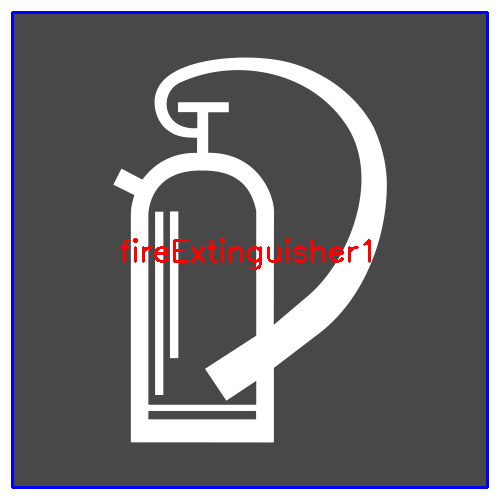
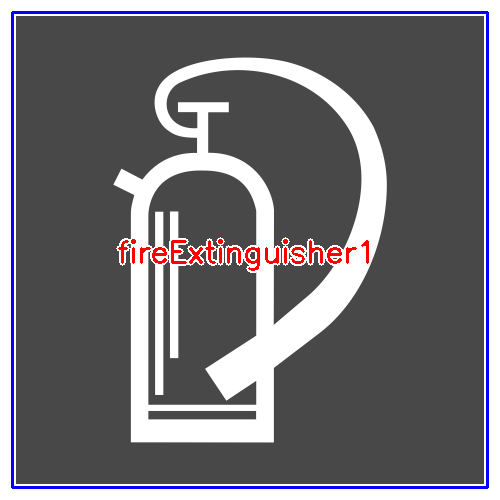
improving writeLabel and drawContour in classify_sign

diff --git a/lib/src/cpp/classify_sign.cpp b/lib/src/cpp/classify_sign.cpp
@@ -4,32 +4,41 @@
 #include "classify_sign.hpp"
 #include "operators/colorized_canny.hpp"
 
+double getFontScale(cv::Mat img) {
+    // TODO use image width and height for calculating font size
+    return std::max(1.3 / 1000 * img.rows, 1.0);
+}
+
+int getInnerThickness(cv::Mat img) {
+    return 2.0 * getFontScale(img);
+}
+
+int getOuterThickness(cv::Mat img) {
+    int innerThickness = getInnerThickness(img);
+    return innerThickness + std::max((int) (innerThickness * 1.0), 4);
+}
+
 void drawContour(cv::Mat &dst, std::vector<cv::Point2i> contour)
 {
-    // TODO add second color for constrast
-    // TODO increase thickness
-    int thickness = std::max((int) round(2.6 / 1000 * dst.rows), 2);
-
     std::vector<std::vector<cv::Point2i>> contours = {contour};
-    cv::Scalar color = cv::Scalar(0, 0, 255, 255);
-    cv::drawContours(dst, contours, 0, color, thickness, cv::LINE_8);
+    cv::drawContours(dst, contours, 0, cv::Scalar(255, 255, 255, 255), getOuterThickness(dst), cv::LINE_8);
+    cv::drawContours(dst, contours, 0, cv::Scalar(0, 0, 255, 255), getInnerThickness(dst), cv::LINE_8);
 }
 
 void writeLabel(cv::Mat &dst, std::string label, std::vector<cv::Point2i> contour)
 {
-    // TODO add second color for constrast
-    // TODO increase thickness
     int fontFace = cv::FONT_HERSHEY_SIMPLEX;
-    double fontScale = std::max(1.3 / 1000 * dst.rows, 1.0);
-    int thickness = fontScale * 2;
+    double fontScale = getFontScale(dst);
+    int innerThickness = getInnerThickness(dst);
+    int outerThickness = getOuterThickness(dst);
     int baseline = 0;
-    cv::Size textSize = cv::getTextSize(label, fontFace, fontScale, thickness, &baseline);
+    cv::Size textSize = cv::getTextSize(label, fontFace, fontScale, outerThickness, &baseline);
 
     cv::Rect boundingBox = cv::boundingRect(contour);
     int x = boundingBox.x + (boundingBox.width - textSize.width) / 2;
     int y = boundingBox.y + (boundingBox.height + textSize.height) / 2;
-    cv::Scalar color = cv::Scalar(255, 0, 0, 255);
-    cv::putText(dst, label, cv::Point2i(x, y), fontFace, fontScale, color, thickness);
+    cv::putText(dst, label, cv::Point2i(x, y), fontFace, fontScale, cv::Scalar(255, 255, 255, 255), outerThickness);
+    cv::putText(dst, label, cv::Point2i(x, y), fontFace, fontScale, cv::Scalar(255, 0, 0, 255), innerThickness);
 }
 
 // TODO how to return sign_class

diff --git a/lib/src/cpp/locate_signs.cpp b/lib/src/cpp/locate_signs.cpp
@@ -5,8 +5,6 @@
 #include "process_potential_sign.hpp"
 #include "operators/colorized_canny.hpp"
 
-cv::RNG rng(12345);
-
 // TODO array for describing detected signs?
 void locateSigns(cv::Mat &src, cv::Mat &dst)
 {
